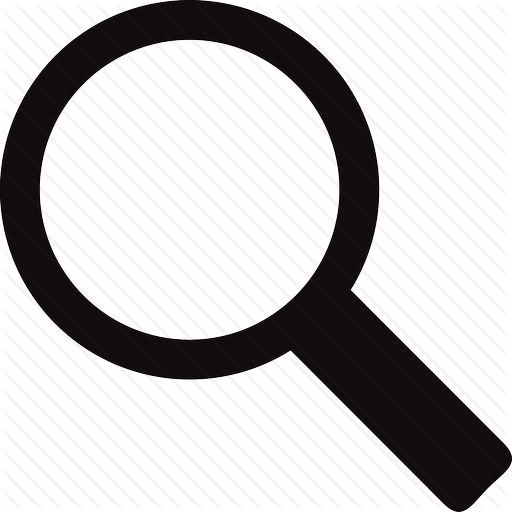
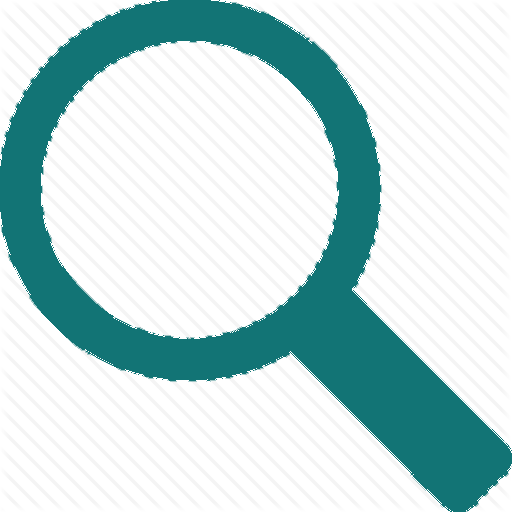
adding phone menu

Changed region(s): [[0.0, 0.0, 1.0, 1.0]]

diff --git a/src/components/App/App.js b/src/components/App/App.js
@@ -3,21 +3,23 @@ import './App.scss';
 import Header from '../Header/Header';
 import Recipes from '../Recipes/Recipes';
 import Footer from '../Footer/Footer';
-import HomepageInscription from '../HomepageInscription/HomepageInscription';
-import Loader from '../Loader/Loader';
+import Menuphone from '../Menuphone/Menuphone';
+// import HomepageInscription from '../HomepageInscription/HomepageInscription';
+// import Loader from '../Loader/Loader';
 
 function App() {
   return (
     <Container fluid className="App">
       <Header />
+      {/* <Loader /> */}
       <Row>
         <Col>
           <Recipes />
         </Col>
       </Row>
-      <HomepageInscription />
+      {/* <HomepageInscription /> */}
+      <Menuphone />
       <Footer />
-      <Loader />
     </Container>
   );
 }

diff --git a/src/components/Menuphone/Menuphone.js b/src/components/Menuphone/Menuphone.js
@@ -1,0 +1,27 @@
+import caddie from '../../assets/images/caddie.png';
+import toque from '../../assets/images/toque.png';
+import plat from '../../assets/images/plat.png';
+import user from '../../assets/images/utilisateur.png';
+
+import './Menuphone.scss';
+
+function Menuphone() {
+  return (
+    <div className="Menuphone">
+      <a href="/profil">
+        <img alt="logo du profil utilisateur" src={toque} />
+      </a>
+      <a href="/profil">
+        <img alt="logo du profil utilisateur" src={plat} />
+      </a>
+      <a href="/profil">
+        <img alt="logo du profil utilisateur" src={caddie} />
+      </a>
+      <a href="/profil">
+        <img alt="logo du profil utilisateur" src={user} />
+      </a>
+    </div>
+  );
+}
+
+export default Menuphone;

diff --git a/src/components/Footer/Footer.js b/src/components/Footer/Footer.js
@@ -3,8 +3,12 @@ import Nav from 'react-bootstrap/Nav';
 
 function Footer() {
   return (
-    <>
-      <Nav className="justify-content-center Footer" activeKey="/home">
+    <div className="Footer">
+      <Nav
+        className="justify-content-center"
+        activeKey="/home"
+        bg="info"
+      >
         <Nav.Item>
           <Nav.Link href="/home">Mentions légales</Nav.Link>
         </Nav.Item>
@@ -15,8 +19,8 @@ function Footer() {
           <Nav.Link eventKey="link-2">FAQ</Nav.Link>
         </Nav.Item>
       </Nav>
-      <p className="text-center mt-2 mb-4">&copy;  Régalade</p>
-    </>
+      <p className="text-center mt-2">&copy; Régalade</p>
+    </div>
   );
 }
 

diff --git a/src/components/Header/Header.scss b/src/components/Header/Header.scss
@@ -13,7 +13,7 @@
   justify-content: center;
   color: vars.$text;
   background-color: vars.$backGroundFull;
-  border-bottom: 1px solid ;
+  border-bottom: 1px solid vars.$accent;
 
   &-utilsLink {
     display: none;
@@ -36,7 +36,7 @@
   }
   &-form {
     display: flex;
-    border: 1px solid vars.$text;
+    border: 1px solid vars.$accent;
     border-radius: 30px;
     width: 90%;
     justify-content: space-between;
@@ -79,7 +79,7 @@
   &-show-button{
     width: 20px;
     height: 20px;
-    border: 1px solid;
+    border: 1px solid vars.$accent;
     border-radius: 30px;
     padding: 14px;
     margin-right: 10px;

diff --git a/src/components/Menuphone/Menuphone.scss b/src/components/Menuphone/Menuphone.scss
@@ -1,0 +1,26 @@
+@use '../../styles/vars';
+
+.Menuphone{
+    display: flex;
+    position: sticky;
+    bottom: 50px;
+    justify-content: space-around;
+    align-items: center;
+    background-color: vars.$accent;
+    width: 80%;
+    height: 50px;
+    border-radius: 30px;
+    margin: auto;
+    z-index: 50;
+    a{
+        padding: 0 5px;
+        img{
+            width: 35px;
+        }
+    }
+}
+@media (min-width: vars.$layout-breakpoint-small) {
+    .Menuphone{
+        display: none;
+    }
+}

diff --git a/src/components/Header/Header.js b/src/components/Header/Header.js
@@ -50,7 +50,7 @@ function Header() {
   };
 
   const handleWidthDimension = () => {
-    if (window.innerWidth < 600) {
+    if (window.innerWidth < 575) {
       setScreenWidth(true);
     } else {
       setScreenWidth(false);

diff --git a/src/components/Footer/Footer.scss b/src/components/Footer/Footer.scss
@@ -1,7 +1,9 @@
 @use '../../styles/vars';
 
 .Footer{
+    background-color: vars.$backGroundFull;
     color: vars.$text;
+    z-index: 10;
     a{
         font-family: vars.$font;
         color: vars.$text;

diff --git a/src/reducers/index.js b/src/reducers/index.js
@@ -9,7 +9,6 @@ const rootReducer = combineReducers({
   user: userReducer,
   list: listReducer,
   favorites: favoritesReducer,
-  header: headerReducer,
 });
 
 export default rootReducer;
